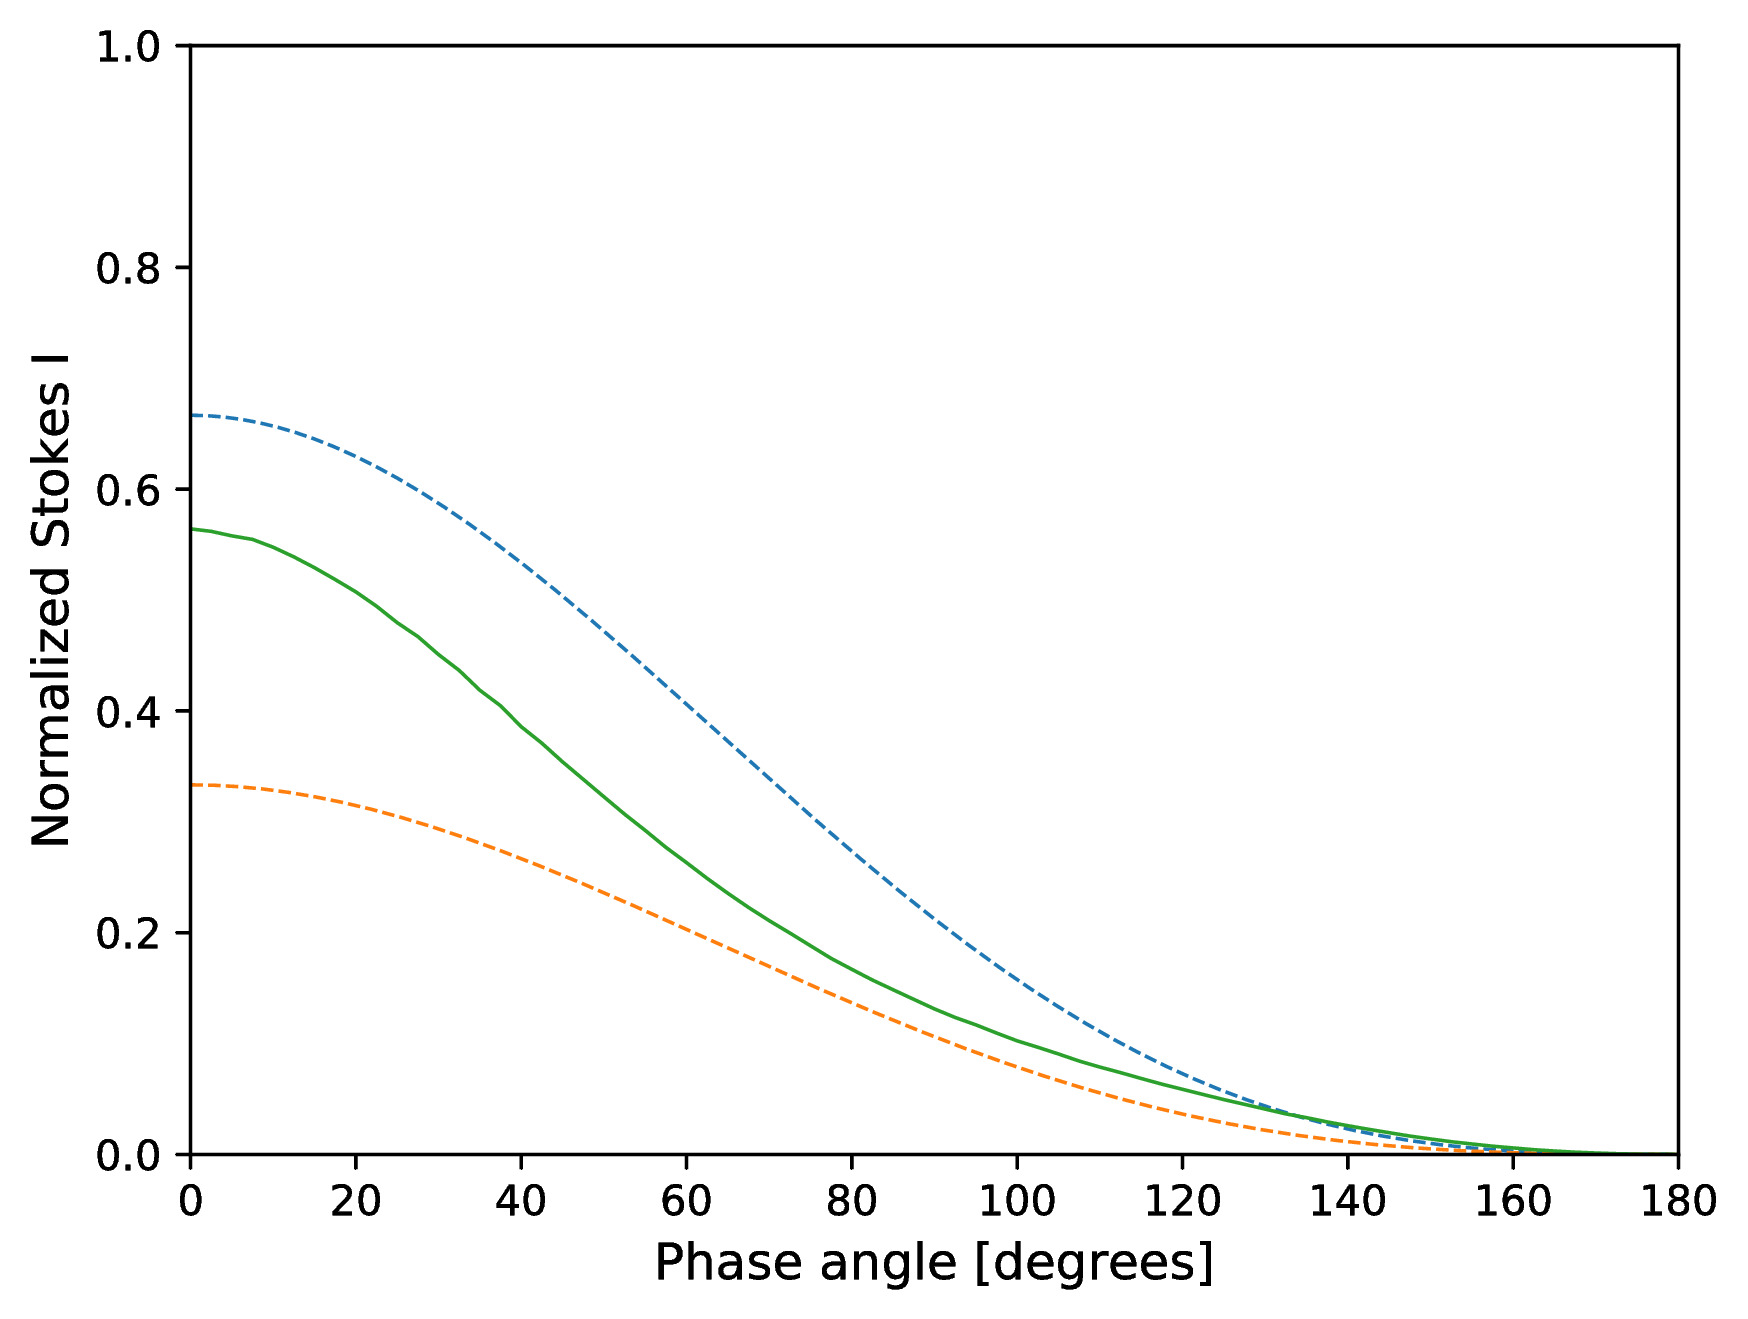
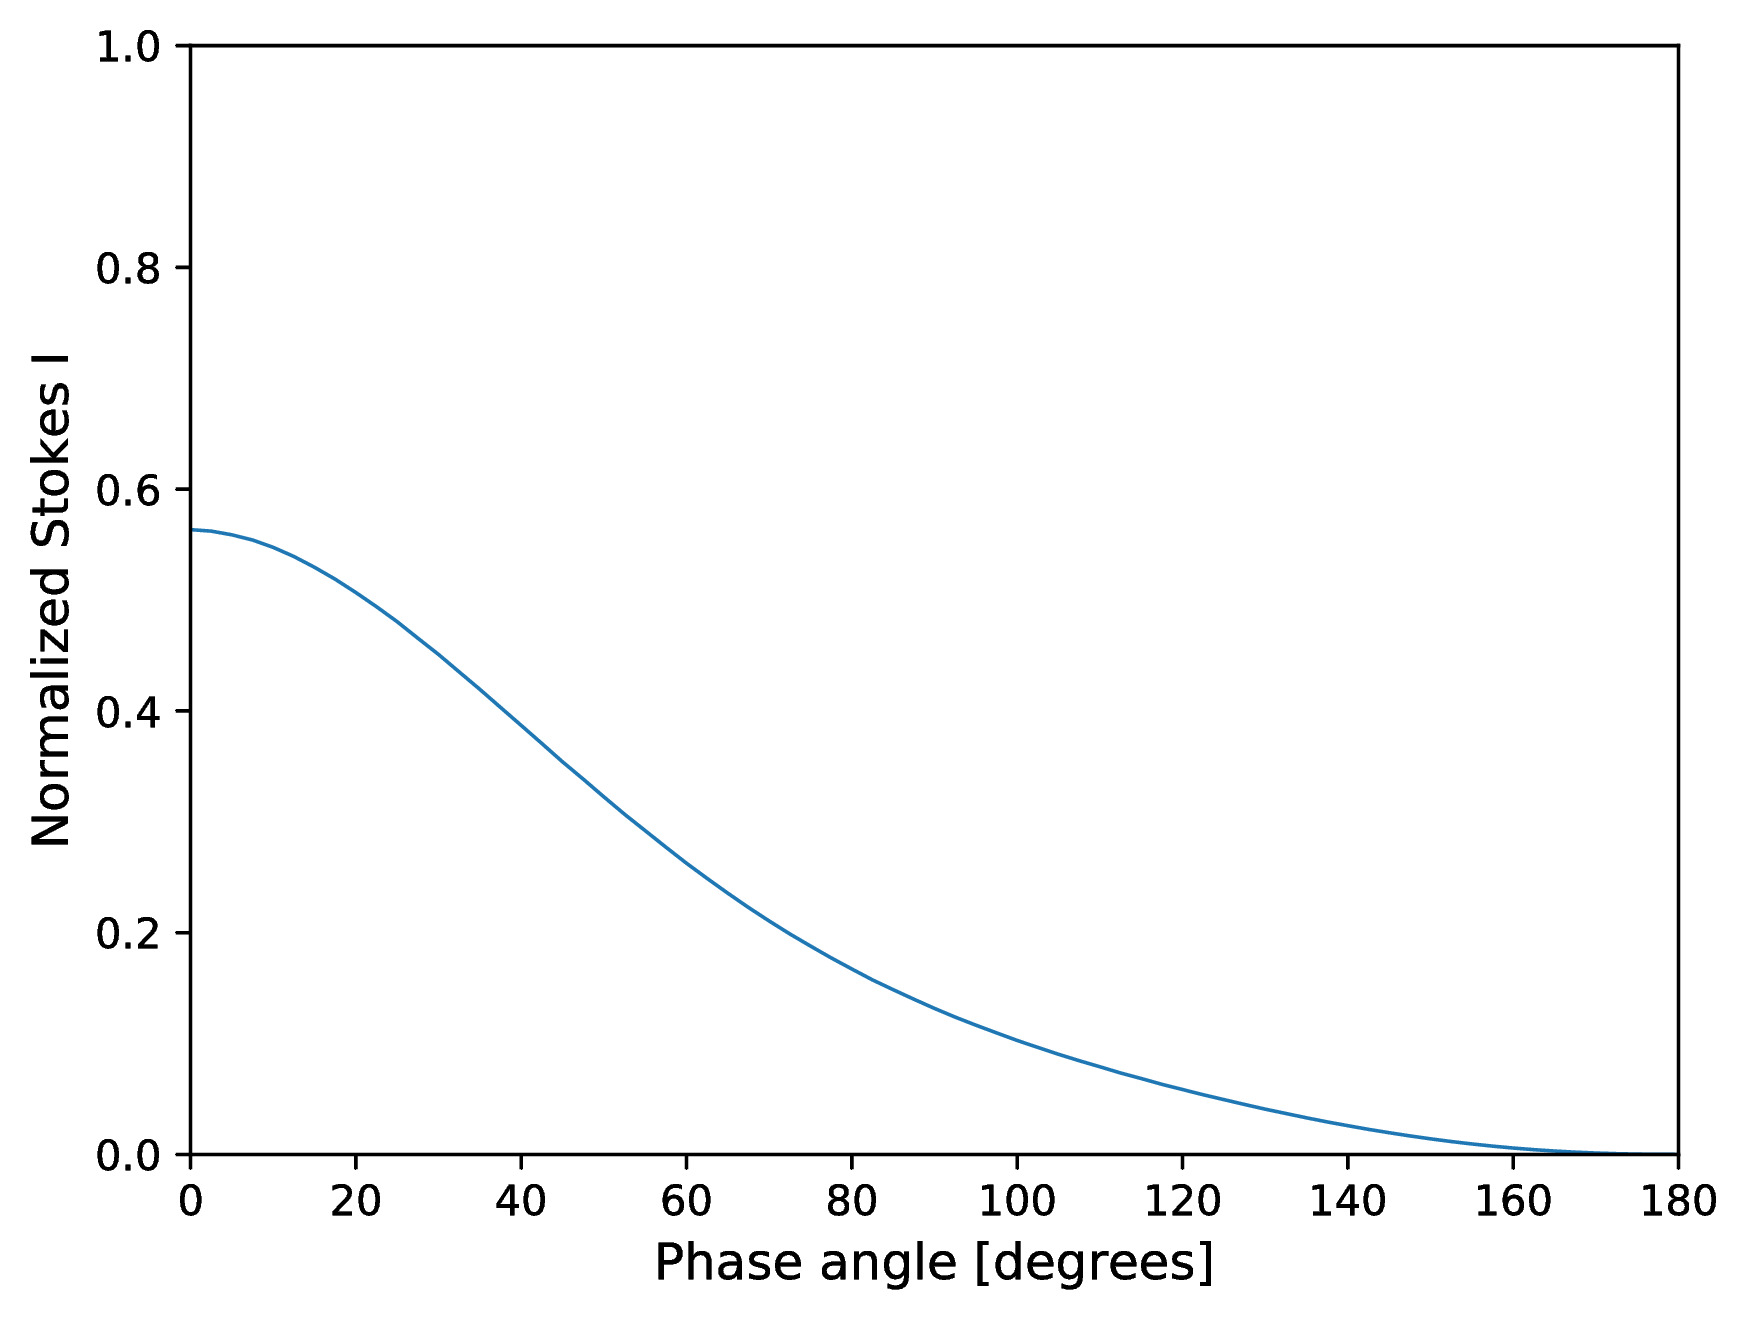
Documentation update

diff --git a/tools/opacity_henyey.py b/tools/opacity_henyey.py
@@ -1,12 +1,16 @@
+import os
+import sys
+import math
+
 import numpy as np
-import math, os, sys
+
 from astropy.io import fits
 from scipy.integrate import quad
 
 # ------------------------------------------------------------
 # Input
 
-atmosphere = sys.argv[1]
+opacity = sys.argv[1]
 
 fitsOutput = 'henyey.fits'
 
@@ -14,7 +18,7 @@ absorption = 0.05 # Absorption opacity [cm2 g-1]
 scattering = 1.0 # Scattering opacity [cm2 g-1]
 
 # Henyey-Greenstein parameters
-g1 = 0.4
+g1 = 0.8
 w1 = 1.0
 g2 = 0.
 w2 = 0.
@@ -25,20 +29,19 @@ pCircular = 0.0
 skew = 0.0
 
 # Wavelengths from FITS file
-fitsWavelength = False
-wavelengthFile = ''
+fitsWavelength = True
+wavelengthFile = 'ammonia_a1.0_b0.10.fits'
 
 # Wavelength range [micron]
-manualWavelength = True
+manualWavelength = False
 wavelengthMin = 0.7
 wavelengthMax = 0.7
 step = 1.0
 
 # ------------------------------------------------------------
 
-scriptDir =  os.path.dirname(os.path.abspath(__file__))
-fitsOutput = scriptDir[:-6]+'input/'+atmosphere+'/opacity/'+fitsOutput
-wavelengthFile = scriptDir[:-6]+'input/'+atmosphere+'/opacity/'+wavelengthFile
+fitsOutput = os.path.join(opacity, fitsOutput)
+wavelengthFile = os.path.join(opacity, wavelengthFile)
 
 if fitsWavelength:
     
@@ -64,25 +67,23 @@ for i in range(len(wavelength)):
     opacity[3,i] = scattering
 
 def hgP11(theta):
-
     alpha = math.cos(theta)
-    henyey = w1 * (1.-g1*g1) / ( (1.+g1*g1-2.*g1*alpha)**(3./2.) )
-    henyey += w2 * (1.-g2*g2) / ( (1.+g2*g2-2.*g2*alpha)**(3./2.) )
-    henyey += w3 * (1.-g3*g3) / ( (1.+g3*g3-2.*g3*alpha)**(3./2.) )
+    henyey = w1 * (1.-g1*g1) / ((1.+g1*g1-2.*g1*alpha)**(3./2.))
+    henyey += w2 * (1.-g2*g2) / ((1.+g2*g2-2.*g2*alpha)**(3./2.))
+    henyey += w3 * (1.-g3*g3) / ((1.+g3*g3-2.*g3*alpha)**(3./2.))
     henyey *= math.sin(theta)
 
     return henyey
 
 def HGscatter(alpha):
-
     scatterMatrix = np.zeros((16))
     
-    alphaF = alpha * ( 1.+ 3.13 * skew * math.exp(-7.*alpha/math.pi) )
+    alphaF = alpha * (1.+ 3.13 * skew * math.exp(-7.*alpha/math.pi))
     cosAlphaF = math.cos(alphaF)
 
-    scatterMatrix[0] = w1 * (1.-g1*g1) / ( (1.+g1*g1-2.*g1*alpha)**(3./2.) )
-    scatterMatrix[0] += w2 * (1.-g2*g2) / ( (1.+g2*g2-2.*g2*alpha)**(3./2.) )
-    scatterMatrix[0] += w3 * (1.-g3*g3) / ( (1.+g3*g3-2.*g3*alpha)**(3./2.) )
+    scatterMatrix[0] = w1 * (1.-g1*g1) / ((1.+g1*g1-2.*g1*alpha)**(3./2.))
+    scatterMatrix[0] += w2 * (1.-g2*g2) / ((1.+g2*g2-2.*g2*alpha)**(3./2.))
+    scatterMatrix[0] += w3 * (1.-g3*g3) / ((1.+g3*g3-2.*g3*alpha)**(3./2.))
     scatterMatrix[1] = -pLinear * scatterMatrix[0] * (1.-alpha*alpha) / (1.+alpha*alpha)
     scatterMatrix[4] = scatterMatrix[1]
     scatterMatrix[5] = scatterMatrix[0]
@@ -96,18 +97,16 @@ def HGscatter(alpha):
 hgNorm, error = quad(hgP11, 0., math.pi)
 hgNorm *= 2.*math.pi
 
-scatter = np.zeros((180,16,len(wavelength)))
+scatter = np.zeros((180, 16, len(wavelength)))
 
 for i in range(len(wavelength)):
     for j in range(180):
-
         scatterMatrixLow = HGscatter(math.cos(float(j)*math.pi/180.))
         scatterMatrixUp = HGscatter(math.cos(float(j+1)*math.pi/180.))
 
         for m in range(16):
-
-            scatter[j,m,i] = ( scatterMatrixLow[m] + scatterMatrixUp[m] ) / 2.
-            scatter[j,m,i] /= hgNorm
+            scatter[j, m, i] = (scatterMatrixLow[m] + scatterMatrixUp[m]) / 2.
+            scatter[j, m, i] /= hgNorm
 
 hdulist = fits.HDUList()
 hdulist.append(fits.ImageHDU(np.array(opacity), name='opacity'))

diff --git a/README.rst b/README.rst
@@ -12,7 +12,7 @@ ARTES
 .. image:: http://img.shields.io/badge/arXiv-1706.09427-orange.svg?style=flat
     :target: http://arxiv.org/abs/1706.09427
 
-ARTES is a 3D Monte Carlo radiative transfer code specifically designed for polarized scattered light simulations in planetary atmospheres. Simulations of both reflected light and thermal emission from the planet are possible for an arbitrary atmospheric structure and distribution of opacity sources. Multiple scattering, absorption, and polarization are fully treated and the output includes an image, spectrum, or phase curve. Several tools are included to create opacities and scattering matrices for molecules and clouds.
+ARTES is a 3D Monte Carlo radiative transfer code specifically designed for (polarized) scattered light simulations of planetary atmospheres. Computations of both reflected stellar light and thermal emission from the planet are possible for an arbitrary atmospheric structure and distribution of opacity sources. Multiple scattering, absorption, and polarization are fully treated and the output includes an image, spectrum, or phase curve. Several tools are included to create opacities and scattering matrices for molecules and clouds.
 
 Documentation
 -------------

diff --git a/docs/examples.rst b/docs/examples.rst
@@ -17,7 +17,7 @@ The first example simulates an Stokes I, Q, and U image in backward direction fr
 Phase curve from a Rayleigh scattering atmosphere
 -------------------------------------------------
 
-The second example simulates phase curve of a Rayleigh scattering atmosphere. That is, the disk-integrated flux along the different phases (i.e., scattering angles) of the planet. The images show the Stokes I flux (green) in comparison with Lambert surfaces (dasked lines) and the fractional polarization. The input files can be downloaded `here <https://people.phys.ethz.ch/~stolkert/artes/rayleigh.tar.gz>`__.
+The second example simulates phase curve of a Rayleigh scattering atmosphere. That is, the disk-integrated flux along the different phases (i.e., scattering angles) of the planet. The figures show the Stokes I flux and the fractional polarization. The input files can be downloaded `here <https://people.phys.ethz.ch/~stolkert/artes/rayleigh.tar.gz>`__.
 
 .. image:: _images/phase_curve_stokes_i.jpg
    :width: 70%
